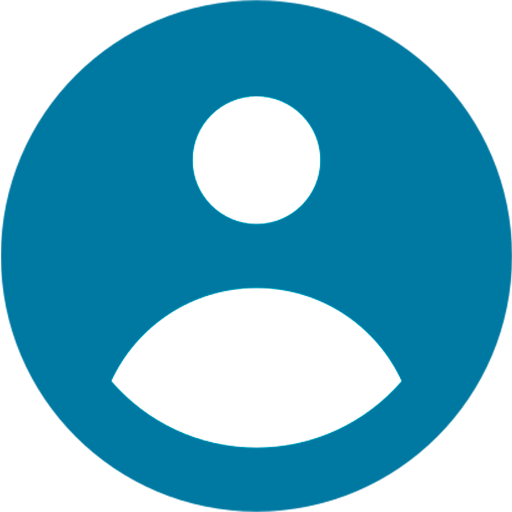
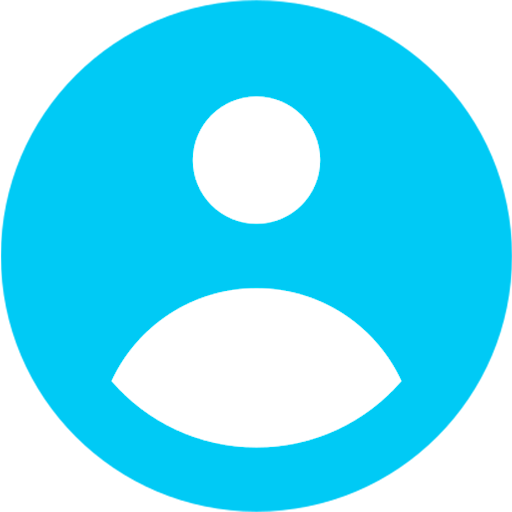
-added addproduct popup form

diff --git a/src/components/AddProductsAdmin.jsx b/src/components/AddProductsAdmin.jsx
@@ -1,12 +1,36 @@
 import BlueButton from './ui/BlueButton';
 import './AddProductsAdmin.scss'
+import { useState } from 'react';
+import PopupForm from './ui/PopupForm';
+import InputLabel from './form/components/InputLabel'
+import SelectLabel from './form/components/SelectLabel';
+import { ProductTypes } from '../Utils';
 
 const AddProductsAdmin = () => {
+    const [hidePopupForm, setHidePopupForm] = useState(true)
+    const togglePopupForm = () => setHidePopupForm(!hidePopupForm)
+    const ProductTypesOptions = []
+    ProductTypes.forEach(type => {
+        ProductTypesOptions.push({
+            value: type,
+            name: type
+        })
+    })
+
     return (
-        <div className='listbuttons'>
-            <BlueButton>Añadir producto</BlueButton>
-        </div>
-        // TODO popup form
+        <>
+            <div className='listbuttons'>
+                <BlueButton buttonclick={() => togglePopupForm()}>Añadir trabajador</BlueButton>
+            </div>
+            <PopupForm hidePopupForm={hidePopupForm} togglePopupForm={togglePopupForm}>
+                <h1>Añadir trabajador</h1>
+                <SelectLabel label={'Categorias'} selectOptions={ProductTypesOptions} selectDefault={'Seleccione una Categoria'}/>
+                <InputLabel label={'Nombre'} inputtype={'text'} />
+                <InputLabel label={'Imagen URL'} inputtype={'text'} />
+                <InputLabel label={'Precio'} inputtype={'number'} />
+                <BlueButton>Añadir trabajador</BlueButton>
+            </PopupForm>
+        </>
     )
 }
 

diff --git a/src/components/ui/PopupForm.scss b/src/components/ui/PopupForm.scss
@@ -1,0 +1,44 @@
+.popupOverlay{
+    position: fixed;
+    top: 0;
+    left: 0;
+    width: 100%;
+    height: 100%;
+    background-color: rgba(0, 0, 0, .3);
+}
+
+.popWrap{
+    position: fixed;
+    top: 0;
+    left: 0;
+    width: 100%;
+    height: 100%;
+    pointer-events: none;
+    z-index: 100;
+
+    .popupform {
+        position: absolute;
+        top: 50%;
+        left: 50%;
+        -webkit-transform: translate(-50%, -50%);
+        -moz-transform: translate(-50%, -50%);
+        transform: translate(-50%, -50%);
+        background-color: white;
+        width: 95%;
+        padding: 2rem;
+        max-width: 60rem;
+        height: auto;
+        min-height: 40.0rem;
+        pointer-events: all;
+        max-height: 95vh;
+        overflow: auto;
+        button {
+            margin-top: 4rem;
+            width: 100%;
+        }
+        h1 {
+            text-align: center;
+            color: #00789f;
+        }
+    }
+}

diff --git a/src/components/SideNavAdmin.scss b/src/components/SideNavAdmin.scss
@@ -1,6 +1,6 @@
 .verticalNavAdmin{
-    background-color: #47c9f3;
-    border-right: 2px solid #00789f;
+    background-color: #00789f;
+    border-right: 2px solid #2c3340;
     .insideVerticalNav {
         ul {
             margin: 0;
@@ -10,7 +10,7 @@
             padding: 2rem;
             text-align: center;
             width: 100%;
-            border-bottom: 2px solid #00789f;
+            border-bottom: 2px solid #2c3340;
             font-size: 2.5rem;
             font-weight: bold;
             color: white;
@@ -19,7 +19,7 @@
             }
         }
         li:hover {
-            background-color: #00789f;
+            background-color: #47c9f3;
             transition: 0.2s ease-in;
             cursor: pointer;
         }

diff --git a/src/components/form/components/SelectLabel.jsx b/src/components/form/components/SelectLabel.jsx
@@ -1,0 +1,20 @@
+import './SelectLabel.scss'
+
+const SelectLabel = ({label,selectChange,selectOptions,selectDefault}) => {
+    return (
+        <div className='insidewrap'>
+            <label>{label}</label>
+            <select onChange={selectChange}>
+                <option value={''}>{selectDefault}</option>
+                {selectOptions.map((option, index) => {
+                const { value, name } = option;
+                return (
+                    <option key={index} value={value}>{name}</option>
+                );
+                })}
+            </select>
+        </div>
+    )
+}
+
+export default SelectLabel;

diff --git a/src/Utils.js b/src/Utils.js
@@ -3,6 +3,11 @@ import CortacespedIcon from './assets/CortacespedIconColor.png'
 import limpiadorIcon from './assets/LimpiadorIconColor.png'
 import mantenimientoIcon from './assets/LimpiapiscinasIconColor.png'
 
+export const ProductTypes = [
+    'Cocinero',
+    'Limpieza del hogar',
+    'Cortacesped',
+    'Mantenimiento de piscinas'];
 
 export const checkUserIsAdmin = (currentUser) => {
     if ( !currentUser || !Array.isArray(currentUser.userRoles)) return false;

diff --git a/src/components/ui/PopupForm.jsx b/src/components/ui/PopupForm.jsx
@@ -1,0 +1,16 @@
+/* eslint-disable react/jsx-key */
+import './PopupForm.scss'
+
+const PopupForm = ({hidePopupForm,children,togglePopupForm}) => {
+    if (hidePopupForm) return null;
+    return [
+        <div className="popupOverlay" onClick={() => togglePopupForm()} />,
+        <div className="popWrap">
+            <div className="popupform">
+                {children}
+            </div>
+        </div>
+    ]
+}
+
+export default PopupForm;

diff --git a/src/components/UserProfile.scss b/src/components/UserProfile.scss
@@ -4,12 +4,12 @@
     justify-content: center;
     align-items: center;
     padding: 2rem;
-    border-bottom: 2px solid #00789f;
+    border-bottom: 2px solid #2c3340;
     img{
         width: 10rem;
     }
     span{
-        color: #00789f;
+        color: #47c9f3;
         margin-top: 1rem;
         font-size: 2.5rem;
     }

diff --git a/src/components/form/components/SelectLabel.scss b/src/components/form/components/SelectLabel.scss
@@ -1,0 +1,10 @@
+.insidewrap{
+    select {
+        width: fit-content;
+        padding: 1rem;
+        outline: none;
+        border: 2px solid #00789f;
+        border-radius: 10px;
+        font-size: 2rem;
+    }
+}

diff --git a/src/components/Signin.scss b/src/components/Signin.scss
@@ -1,5 +1,4 @@
 .signin{
-    height: auto;
     display: flex;
     align-items: center;
     justify-content: center;
